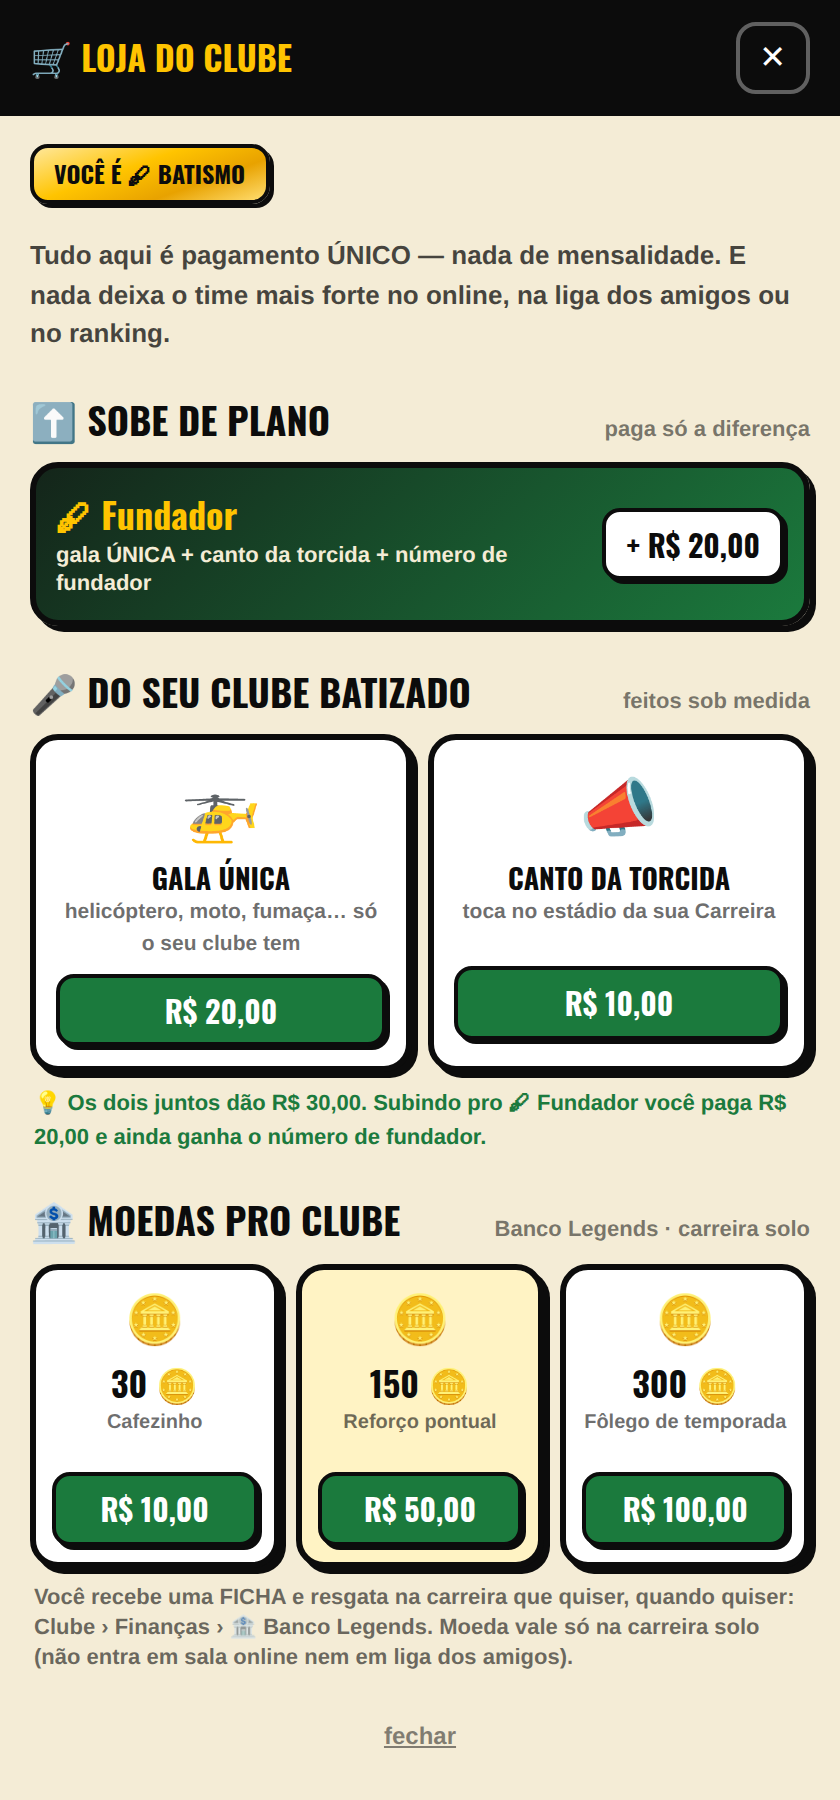
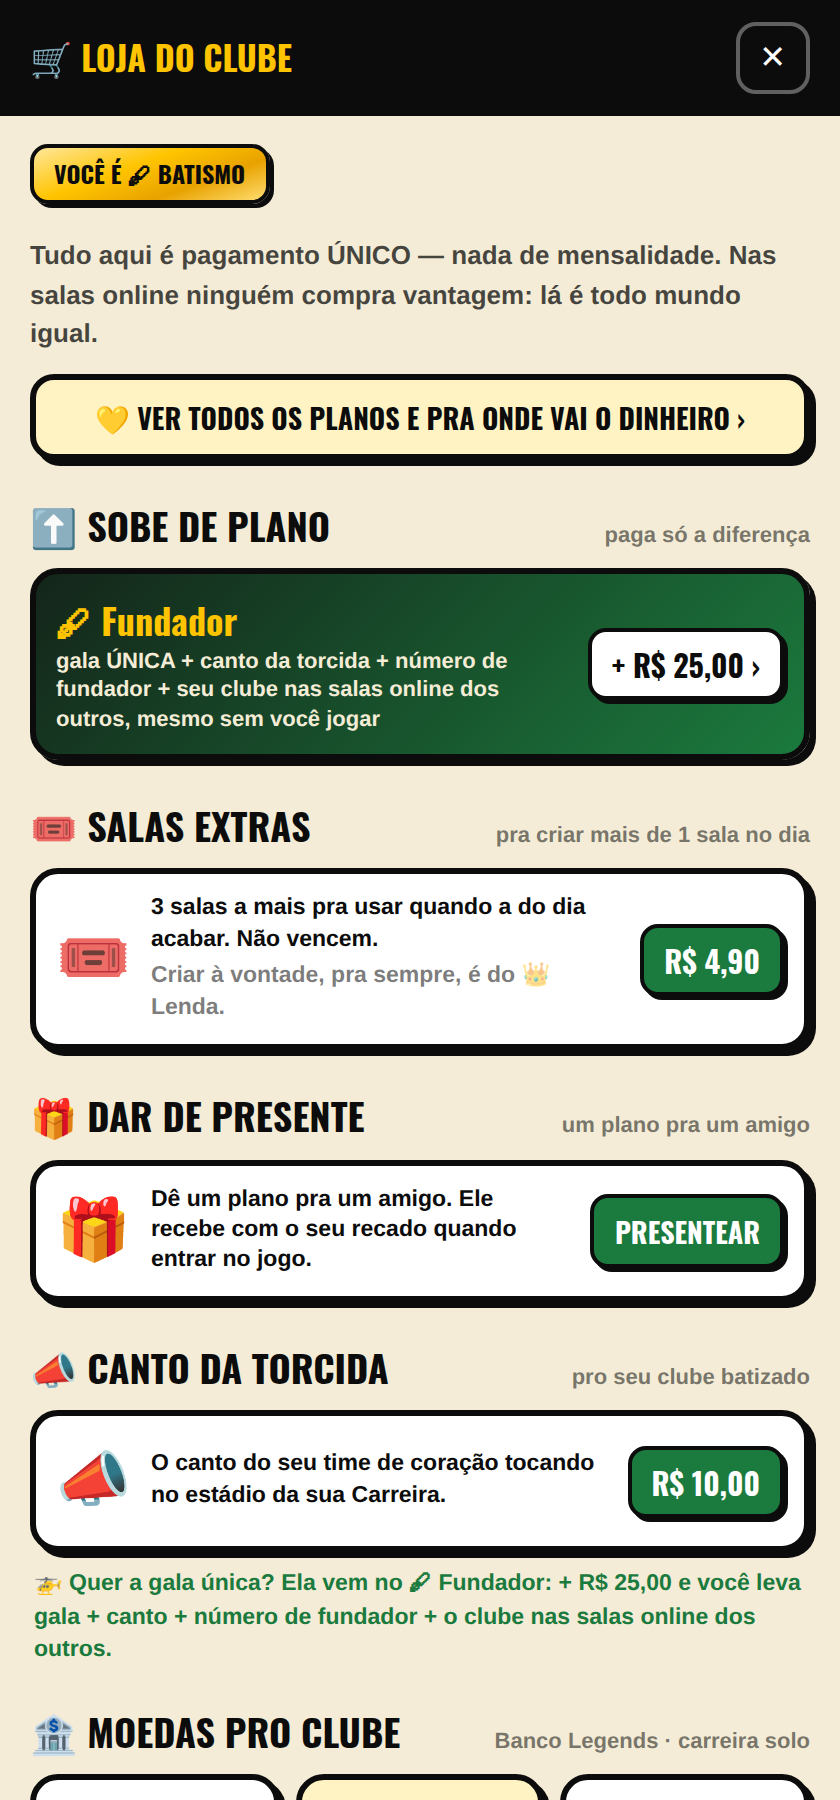
Loja (proposta, não publicada): sai a gala avulsa (só no Fundador); fica o canto avulso R$ 10 com a dica de subir pro Fundador
Claude-Session: https://claude.ai/code/session_018Ap1zPCMVL9XeZJN3u93ZA

diff --git a/src/escalacao/loja-clube.tsx b/src/escalacao/loja-clube.tsx
@@ -28,15 +28,12 @@ import { PresenteBox } from './presente'
 const INK = '#0C0C0C', GOLD = '#FFC400', GREEN = '#1B7A3D', CREAM = '#F4ECD6'
 const OSW = { fontFamily: 'Oswald, sans-serif', fontWeight: 700 } as const
 /** 💰 avulsos do clube batizado (Diego 14/10) */
-export const LOJA_PRECOS = { galaUnica: 25, canto: 10, salasExtras: 4.9 } as const // 💰 14/10: gala única avulsa 25 (Diego)
+export const LOJA_PRECOS = { canto: 10, salasExtras: 4.9 } as const // 💰 14/10: a gala avulsa saiu (só no Fundador)
 /** 🎟 quantas salas vêm no pacote (Diego 14/10) */
 export const SALAS_EXTRAS_QTD = 3
 /** 🏦 pacotes do Banco Legends (os mesmos de `BL_PACOTES` em pyramidseason.tsx, R$ 1 = 3 🪙) */
 const MOEDAS: [number, string, string][] = [[10, 'Cafezinho', 'Coffee money'], [50, 'Reforço pontual', 'Quick boost'], [100, 'Fôlego de temporada', 'Season breather']]
-// 🎁 quem JÁ TEM o item não pode ver ele à venda (Diego 14/10: "o Tricolor do Arruda já tem canto"). O canto vem da lista
-// do som (`temCantoProprio`). A gala única mora em `GALA_UNICA` (entrada-gala.tsx, chaveada pelo CLUBE e carregada sob
-// demanda) — aqui vai o E-MAIL de quem tem. Ganhou gala única nova? Entra nas DUAS listas.
-const GALA_UNICA_EMAILS = new Set(['diego.c.fonseca@gmail.com', 'kelvinoliveiraandradeenunes@gmail.com']) // Neymarzetti · K9 FC
+// 🎁 quem JÁ TEM o canto não vê ele à venda (Diego 14/10: "o Tricolor do Arruda já tem canto") — lista do som (`temCantoProprio`).
 const ORDEM: PlanoUnico[] = ['craque', 'lenda', 'batismo', 'fundador']
 const NOME: Record<PlanoUnico, [string, string]> = { craque: ['⭐ Craque', '⭐ Star'], lenda: ['👑 Lenda', '👑 Legend'], batismo: ['🖋 Batismo', '🖋 Club Naming'], fundador: ['🖋 Fundador', '🖋 Founder'] }
 const GANHO: Record<PlanoUnico, [string, string]> = {
@@ -70,7 +67,7 @@ function Loja({ onClose }: { onClose: () => void }) {
   const [saldoSalas, setSaldoSalas] = useState<number | null>(null)
   useEffect(() => { if (loggedEmail()) supabase.rpc('esc_minhas_salas_extras').then(({ data }) => { if (typeof data === 'number') setSaldoSalas(data) }, () => {}) }, [])
   const email = loggedEmail()
-  const jaTem = { 'gala única': atual === 'fundador' || (!!email && GALA_UNICA_EMAILS.has(email)), 'canto da torcida': atual === 'fundador' || temCantoProprio(email) }
+  const jaTem = { 'canto da torcida': atual === 'fundador' || temCantoProprio(email) }
   const perk = tier ? APOIO_PERKS[tier] : APOIO_PERKS.bege
 
   const card: React.CSSProperties = { background: '#fff', border: `3px solid ${INK}`, borderRadius: 14, boxShadow: `3px 3px 0 ${INK}`, padding: 10 }
@@ -122,22 +119,18 @@ function Loja({ onClose }: { onClose: () => void }) {
         <h2 style={h2}>{tr('🎁 Dar de presente', '🎁 Send a gift')} <span style={sub}>{tr('um plano pra um amigo', 'a plan for a friend')}</span></h2>
         <PresenteBox />
 
-        {/* 🎤 DO CLUBE BATIZADO */}
-        <h2 style={h2}>{tr('🎤 Do seu clube batizado', '🎤 For your named club')} <span style={sub}>{tr('feitos sob medida', 'made to order')}</span></h2>
-        {!temBatismo && <p style={{ ...card, margin: 0, fontSize: 12, fontWeight: 700, background: '#FFF3C4' }}>{tr('🔒 Precisa do 🖋 Batismo: a gala mostra o SEU escudo no telão e a SUA mascote atravessando a tela, e o canto toca no estádio do SEU clube.', '🔒 Needs 🖋 Club Naming: the entrance shows YOUR crest on the big screen and YOUR mascot running across, and the chant plays at YOUR club’s stadium.')}</p>}
-        <div style={{ display: 'grid', gridTemplateColumns: '1fr 1fr', gap: 8, marginTop: temBatismo ? 0 : 8, opacity: temBatismo ? 1 : .55 }}>
-          {([['🚁', tr('Gala ÚNICA', 'UNIQUE entrance'), tr('helicóptero, moto, fumaça… só o seu clube tem', 'helicopter, bike, smoke… only your club has it'), LOJA_PRECOS.galaUnica, 'gala única'],
-             ['📣', tr('Canto da torcida', 'Crowd chant'), tr('o canto do seu time de coração tocando no estádio da sua Carreira', 'your favourite team’s chant playing at your Career stadium'), LOJA_PRECOS.canto, 'canto da torcida']] as const).map(([ic, t, d, v, ctx]) =>
-            <div key={ctx} style={{ ...card, textAlign: 'center' }}>
-              <div style={{ fontSize: 32 }}>{ic}</div>
-              <b style={{ ...OSW, fontSize: 14, textTransform: 'uppercase', display: 'block' }}>{t}</b>
-              <small style={{ fontSize: 10.5, fontWeight: 700, color: 'rgba(12,12,12,.6)', display: 'block', minHeight: 28 }}>{d}</small>
-              {jaTem[ctx] ? <div style={{ ...preco, background: CREAM, color: GREEN, cursor: 'default', marginTop: 6 }}>{atual === 'fundador' ? tr('✅ já incluso', '✅ included') : tr('✅ você já tem', '✅ you have it')}</div>
-                : <button disabled={!temBatismo} onClick={() => setComprando({ id: ctx, amount: v, ctx: `loja · ${ctx}`, msgPt: `Opa! Comprei na Loja do Clube: ${ic} ${ctx.toUpperCase()} (${reais(v)}). E-mail da conta: ____ — comprovante em anexo!`, msgEn: `Hey! I bought in the Club Shop: ${ic} ${ctx.toUpperCase()} (${reais(v)}). Account e-mail: ____ — receipt attached!` })}
-                  style={{ ...preco, width: '100%', marginTop: 6, cursor: temBatismo ? 'pointer' : 'not-allowed' }}>{reais(v)}</button>}
-            </div>)}
+        {/* 🎤 DO CLUBE BATIZADO — 14/10 (Diego): a gala avulsa SAIU (custava o mesmo que subir pro Fundador, que traz tudo).
+            Fica só o 📣 canto avulso, o pedacinho barato; a gala única vem no 🖋 Fundador. */}
+        <h2 style={h2}>{tr('📣 Canto da torcida', '📣 Crowd chant')} <span style={sub}>{tr('pro seu clube batizado', 'for your named club')}</span></h2>
+        <div style={{ ...card, display: 'flex', gap: 10, alignItems: 'center', opacity: temBatismo ? 1 : .6 }}>
+          <span style={{ fontSize: 30 }}>📣</span>
+          <small style={{ flex: 1, fontSize: 11.5, fontWeight: 700, lineHeight: 1.35 }}>{temBatismo
+            ? tr('O canto do seu time de coração tocando no estádio da sua Carreira.', 'Your favourite team’s chant playing at your Career stadium.')
+            : tr('🔒 Precisa do 🖋 Batismo: o canto toca no estádio do SEU clube.', '🔒 Needs 🖋 Club Naming: the chant plays at YOUR club’s stadium.')}</small>
+          {jaTem['canto da torcida'] ? <span style={{ ...preco, background: CREAM, color: GREEN, cursor: 'default' }}>{atual === 'fundador' ? tr('✅ incluso', '✅ included') : tr('✅ já tem', '✅ owned')}</span>
+            : <button disabled={!temBatismo} onClick={() => setComprando({ id: 'canto', amount: LOJA_PRECOS.canto, ctx: 'loja · canto da torcida', msgPt: `Opa! Comprei na Loja do Clube: 📣 CANTO DA TORCIDA (${reais(LOJA_PRECOS.canto)}). Meu time de coração: ____. E-mail da conta: ____ — comprovante em anexo!`, msgEn: `Hey! I bought in the Club Shop: 📣 CROWD CHANT (${reais(LOJA_PRECOS.canto)}). My favourite team: ____. Account e-mail: ____ — receipt attached!` })} style={{ ...preco, cursor: temBatismo ? 'pointer' : 'not-allowed' }}>{reais(LOJA_PRECOS.canto)}</button>}
         </div>
-        {atual === 'batismo' && !jaTem['gala única'] && !jaTem['canto da torcida'] && <p style={{ fontSize: 11, fontWeight: 700, margin: '8px 2px 0', color: GREEN }}>{tr(`💡 Os dois juntos dão ${reais(LOJA_PRECOS.galaUnica + LOJA_PRECOS.canto)}. Subindo pro 🖋 Fundador você paga ${reais(precoSubida('fundador', 'batismo'))} e ainda ganha o número de fundador.`, `💡 Both together cost ${reais(LOJA_PRECOS.galaUnica + LOJA_PRECOS.canto)}. Moving up to 🖋 Founder costs ${reais(precoSubida('fundador', 'batismo'))} and also gives you a founder number.`)}</p>}
+        {atual === 'batismo' && <p style={{ fontSize: 11.5, fontWeight: 700, margin: '8px 2px 0', color: GREEN, lineHeight: 1.4 }}>{tr(`🚁 Quer a gala única? Ela vem no 🖋 Fundador: + ${reais(precoSubida('fundador', 'batismo'))} e você leva gala + canto + número de fundador + o clube nas salas online dos outros.`, `🚁 Want the unique entrance? It comes with 🖋 Founder: + ${reais(precoSubida('fundador', 'batismo'))} for entrance + chant + founder number + your club in other people’s online rooms.`)}</p>}
 
         {/* 🪙 MOEDAS */}
         <h2 style={h2}>{tr('🏦 Moedas pro clube', '🏦 Coins for your club')} <span style={sub}>{tr('Banco Legends · carreira solo', 'Banco Legends · solo career')}</span></h2>
